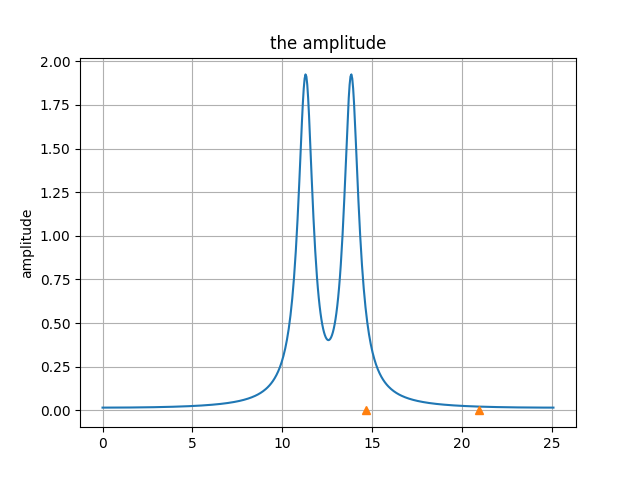
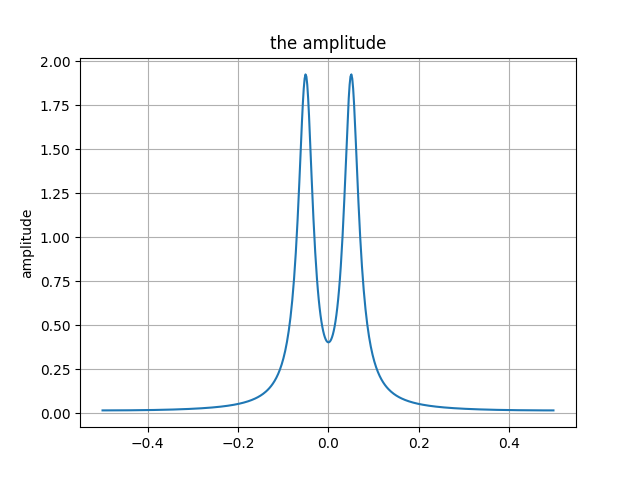
freq in sampling domain

diff --git a/02fft_magnitude.py b/02fft_magnitude.py
@@ -16,7 +16,7 @@ def f_T(x) :
     else :
         u = 1 
     return x * np.exp(-alpha * x) * np.cos(2*np.pi*f_0*x) * u
-signal = [f_T(x) for x in timepoints]
+signal = [f_T(1*x) for x in timepoints]
 
 # Discrete Fourier transform with Fast Fourier Transform
 fft = np.fft.fft(signal)
@@ -24,16 +24,17 @@ fft = np.fft.fftshift(fft)
 fft_magnitude = abs(fft)
 
 # freq domain
-k = np.arange(N)
-T = N / sampling_freq
+T = 16
+k = np.arange(-(T/2), T/2, T/N)
+print(len(k))
 freq = k / T
 k = np.arange(0, 8*np.pi, 8*np.pi/N) 
-print(k)
+
 # Draw the signal graph
 plt.title("the amplitude")
 plt.ylabel("amplitude")
-plt.plot(k, fft_magnitude)
-plt.plot([14*np.pi/3, 20*np.pi/3], [0,0], "^")
+plt.plot(freq, fft_magnitude)
+# plt.plot([2*np.pi/3, 8*np.pi/3], [0,0], "^")
 plt.grid()
 
 plt.savefig("02fft_magnitude.png")
